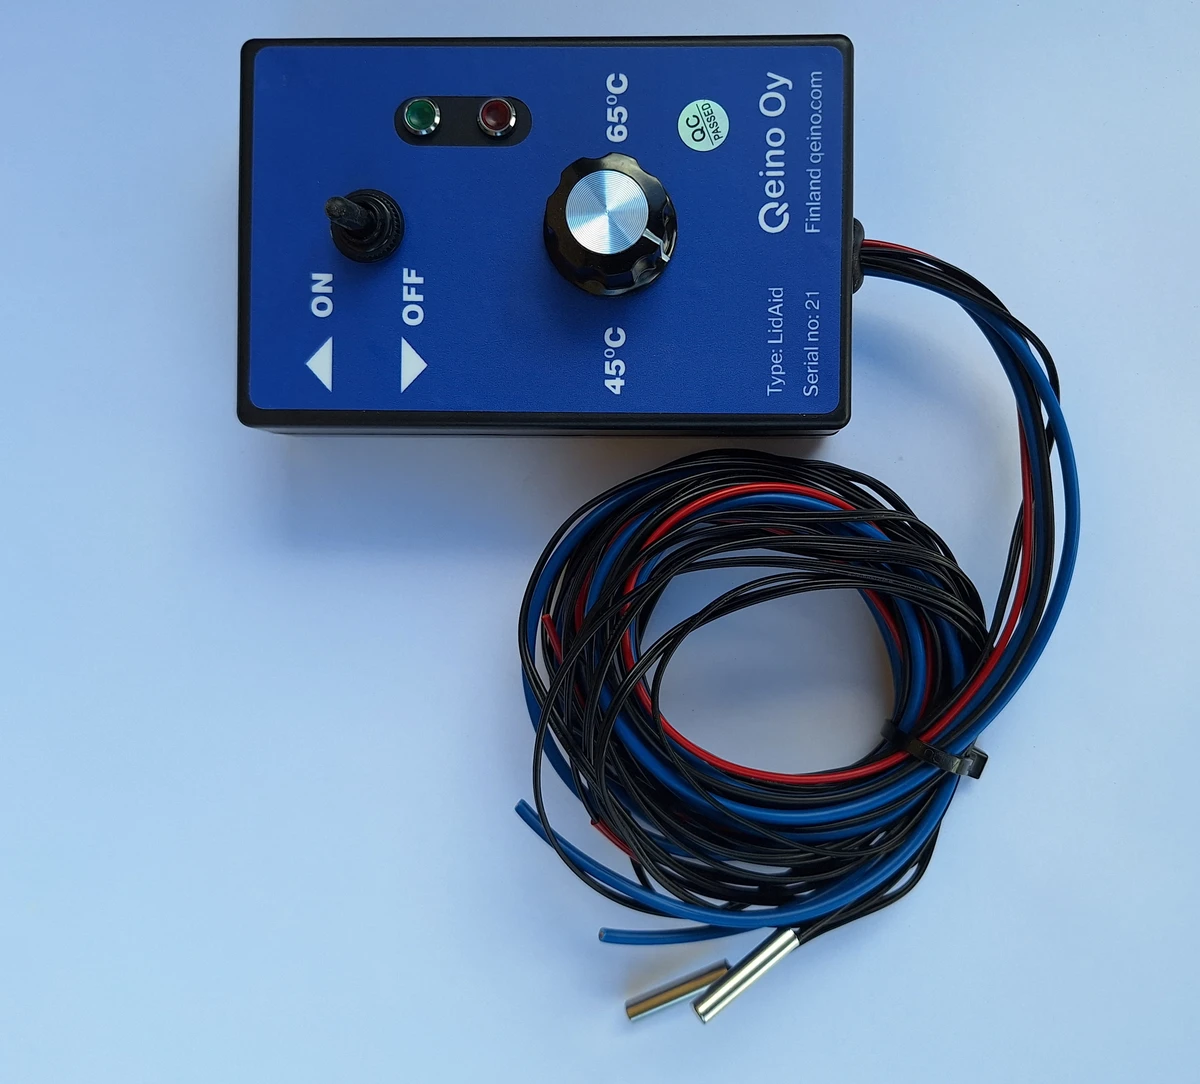
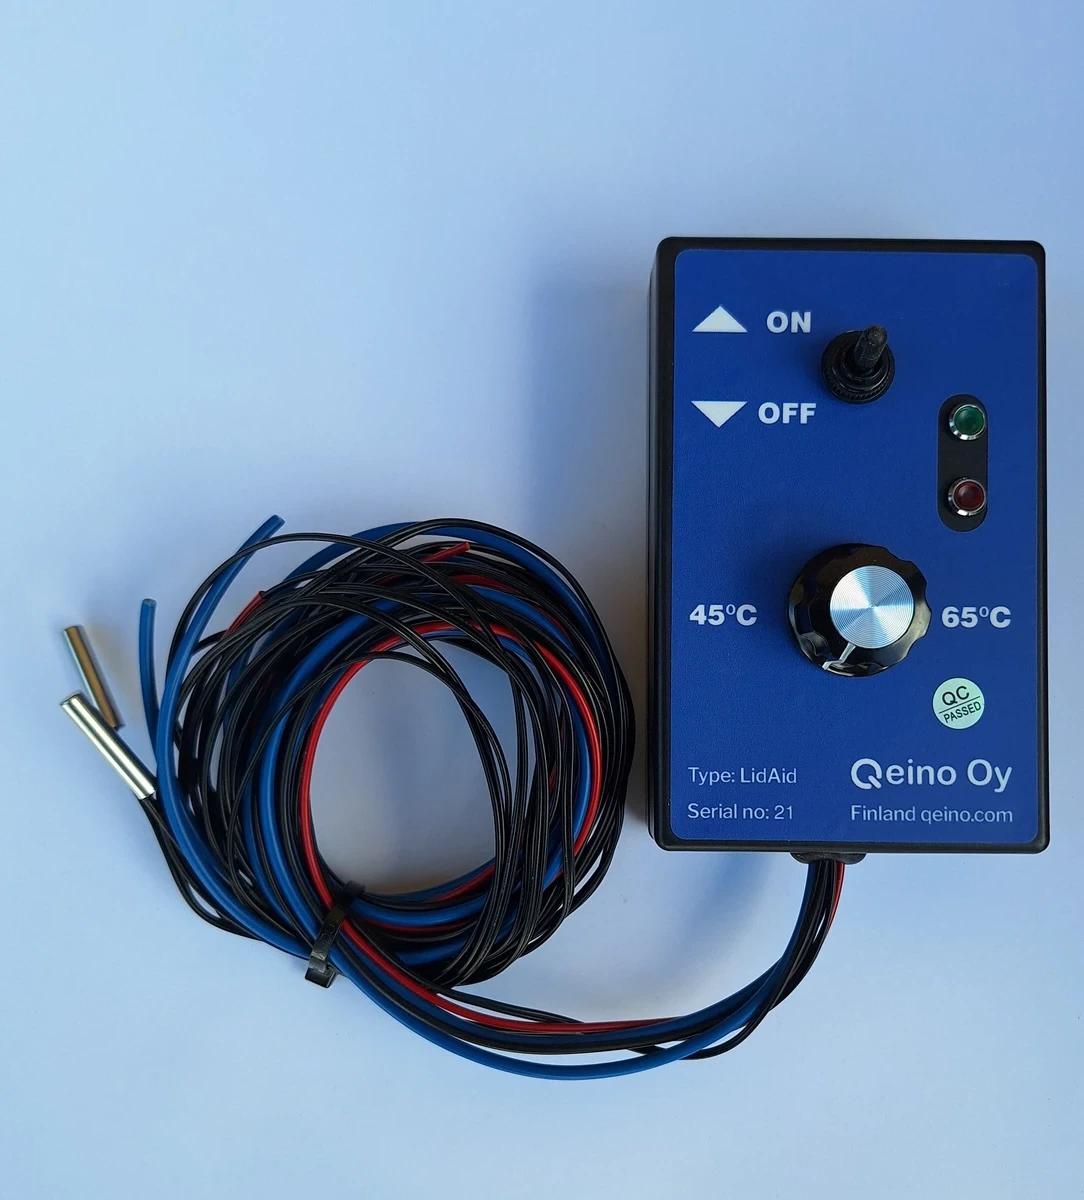
Rotate LidAid photos upright, align hotspots, update -15C tag & copy

diff --git a/index.html b/index.html
@@ -281,7 +281,7 @@
             <img id="heroPreviewImg" src="assets/img/lidaid-device.webp" alt="LidAid-latausluukunlämmitin ohjainlaite" loading="eager">
             <span class="hero-studio-tag" id="heroPreviewTag" aria-hidden="true">
               <svg width="12" height="12" viewBox="0 0 24 24" fill="none" stroke="currentColor" stroke-width="2.5" aria-hidden="true"><path d="M12 2v20M2 12h20M4.93 4.93l14.14 14.14M19.07 4.93L4.93 19.07"/></svg>
-              <span>−40 °C testattu</span>
+              <span>−15 °C testattu</span>
             </span>
           </div>
 
@@ -397,7 +397,7 @@
 
               <!-- Interactive Anatomy Hotspots (anchored 1:1 to image dimensions) -->
               <div class="hotspot-layer" id="lidaidHotspots" role="group" aria-label="Laitteen tekniset rakenneosat">
-                <button type="button" class="hotspot-pin tooltip-bottom" style="top: 32%; left: 26%;" aria-label="Rakenneosa: Päävirtakytkin" aria-expanded="false" data-title="Päävirtakytkin" data-desc="ON / OFF -kytkin virrankatkaisuun ja manuaaliseen ohitukseen.">
+                <button type="button" class="hotspot-pin tooltip-bottom tooltip-align-right" style="top: 28%; left: 68%;" aria-label="Rakenneosa: Päävirtakytkin" aria-expanded="false" data-title="Päävirtakytkin" data-desc="ON / OFF -kytkin virrankatkaisuun ja manuaaliseen ohitukseen.">
                   <span class="hotspot-pulse" aria-hidden="true"></span>
                   <span class="hotspot-circle" aria-hidden="true">
                     <svg class="hotspot-icon" width="11" height="11" viewBox="0 0 14 14" fill="none" aria-hidden="true">
@@ -410,7 +410,7 @@
                   </span>
                 </button>
 
-                <button type="button" class="hotspot-pin tooltip-bottom" style="top: 15.5%; left: 37%;" aria-label="Rakenneosa: LED-merkkivalot" aria-expanded="false" data-title="LED-merkkivalot" data-desc="Kaksiväriset LEDit osoittavat valmiustilan ja aktiivisen lämmityksen.">
+                <button type="button" class="hotspot-pin tooltip-bottom tooltip-align-right" style="top: 35.5%; left: 82%;" aria-label="Rakenneosa: LED-merkkivalot" aria-expanded="false" data-title="LED-merkkivalot" data-desc="Kaksiväriset LEDit osoittavat valmiustilan ja aktiivisen lämmityksen.">
                   <span class="hotspot-pulse" aria-hidden="true"></span>
                   <span class="hotspot-circle" aria-hidden="true">
                     <svg class="hotspot-icon" width="11" height="11" viewBox="0 0 14 14" fill="none" aria-hidden="true">
@@ -423,7 +423,7 @@
                   </span>
                 </button>
 
-                <button type="button" class="hotspot-pin tooltip-bottom" style="top: 30%; left: 50.5%;" aria-label="Rakenneosa: Lämpötilansäädin" aria-expanded="false" data-title="Lämpötilansäädin" data-desc="Portaaton säätöalue +45 °C ... +65 °C olosuhteiden mukaan.">
+                <button type="button" class="hotspot-pin tooltip-align-right" style="top: 50%; left: 73%;" aria-label="Rakenneosa: Lämpötilansäädin" aria-expanded="false" data-title="Lämpötilansäädin" data-desc="Portaaton säätöalue +45 °C ... +65 °C olosuhteiden mukaan.">
                   <span class="hotspot-pulse" aria-hidden="true"></span>
                   <span class="hotspot-circle" aria-hidden="true">
                     <svg class="hotspot-icon" width="11" height="11" viewBox="0 0 14 14" fill="none" aria-hidden="true">
@@ -436,7 +436,7 @@
                   </span>
                 </button>
 
-                <button type="button" class="hotspot-pin" style="top: 89%; left: 69%;" aria-label="Rakenneosa: Johtosarja ja NTC-anturi" aria-expanded="false" data-title="Johtosarja & Anturi" data-desc="12V herätejohto ja tarkka NTC-anturi auton luukun sisään.">
+                <button type="button" class="hotspot-pin tooltip-align-left" style="top: 72%; left: 16%;" aria-label="Rakenneosa: Johtosarja ja NTC-anturi" aria-expanded="false" data-title="Johtosarja & Anturi" data-desc="12V herätejohto ja tarkka NTC-anturi auton luukun sisään.">
                   <span class="hotspot-pulse" aria-hidden="true"></span>
                   <span class="hotspot-circle" aria-hidden="true">
                     <svg class="hotspot-icon" width="11" height="11" viewBox="0 0 14 14" fill="none" aria-hidden="true">
@@ -574,7 +574,7 @@
             </div>
 
             <p class="sim-desc">
-              Testaa liukusäätimellä tai pikavalinnoilla, miten mikroprosessori ohjaa lämmitystehoa ja suojaa akkua:
+              Testaa liukusäätimellä tai pikavalinnoilla, miten mikroprosessori ohjaa lämmitystehoa ja suojaa latausluukkua:
             </p>
 
             <!-- 1-Click Weather Scenario Presets -->

diff --git a/assets/js/i18n.js b/assets/js/i18n.js
@@ -23,7 +23,7 @@
         lidaid: {
           img: 'assets/img/lidaid-device.webp',
           alt: 'LidAid-latausluukunlämmitin ohjainlaite',
-          tag: '−40 °C testattu',
+          tag: '−15 °C testattu',
           title: 'LidAid-latausluukunlämmitin',
           desc: 'Mikroprosessoriohjattu automaattilämmitin pitää sähköauton ja hybridin latausluukun ja pistokkeen sulana kovissakin pakkasissa.',
           s1l: 'Virrankulutus', s1v: '~20 W',
@@ -123,7 +123,7 @@
         },
         other: {
           title: 'Kaikki muut Type 2 & CCS -sähköautot ja ladattavat hybridit',
-          desc: 'LidAid on universaalisti asennettavissa käytännössä mihin tahansa 12V sähköjärjestelmällä varustettuun sähköautoon tai hybridiin (mm. Tesla Model 3/Y/S, Volvo EX40/EX30, Polestar 2/3/4, Mercedes-Benz EQ, Renault, Peugeot, Ford, Nissan ym.).',
+          desc: 'LidAid on universaalisti asennettavissa käytännössä mihin tahansa 12V sähköjärjestelmällä varustettuun sähköautoon tai hybridiin.',
           productVal: 'LidAid-latausluukunlämmitin (Muu automalli)',
           btnText: 'Valitse LidAid autollesi & pyydä tarjous'
         }
@@ -161,7 +161,7 @@
         lidaid: {
           img: 'assets/img/lidaid-device.webp',
           alt: 'LidAid laddluckevärmare styrenhet',
-          tag: 'Testad vid −40 °C',
+          tag: 'Testad vid −15 °C',
           title: 'LidAid laddluckevärmare',
           desc: 'Mikroprocessorstyrd automatisk värmare som håller elbilens och laddhybridens laddlucka och kontakt isfria även i sträng kyla.',
           s1l: 'Effekt', s1v: '~20 W',
@@ -261,7 +261,7 @@
         },
         other: {
           title: 'Alla övriga Type 2 & CCS elbilar och laddhybrider',
-          desc: 'LidAid har en universell design och kan installeras i praktiskt taget alla elbilar och laddhybrider med 12 V-system (t.ex. Tesla Model 3/Y/S, Volvo EX40/EX30, Polestar 2/3/4, Mercedes-Benz EQ, Renault, Peugeot, Ford, Nissan m.fl.).',
+          desc: 'LidAid har en universell design och kan installeras i praktiskt taget alla elbilar och laddhybrider med 12 V-system.',
           productVal: 'LidAid-latausluukunlämmitin (Muu automalli)',
           btnText: 'Välj LidAid för din bil & begär offert'
         }
@@ -299,7 +299,7 @@
         lidaid: {
           img: 'assets/img/lidaid-device.webp',
           alt: 'LidAid EV charge port heater controller unit',
-          tag: '−40 °C tested',
+          tag: '−15 °C tested',
           title: 'LidAid Charge Port Heater',
           desc: 'Microprocessor-controlled automatic heater that keeps EV and plug-in hybrid charge flaps and connectors ice-free even in extreme Arctic cold.',
           s1l: 'Power draw', s1v: '~20 W',
@@ -399,7 +399,7 @@
         },
         other: {
           title: 'All Other Type 2 & CCS Electric Vehicles and Plug-in Hybrids',
-          desc: 'LidAid installs universally in virtually any EV or plug-in hybrid with a 12 V auxiliary system (including Tesla Model 3/Y/S, Volvo EX40/EX30, Polestar 2/3/4, Mercedes-Benz EQ, Renault, Peugeot, Ford, Nissan, and more).',
+          desc: 'LidAid installs universally in virtually any EV or plug-in hybrid with a 12 V auxiliary system.',
           productVal: 'LidAid-latausluukunlämmitin (Muu automalli)',
           btnText: 'Select LidAid for your car & request quote'
         }
@@ -503,7 +503,7 @@
         // Winter Sim
         ['.sim-header-title span', 'Vinterväder- & termostatsimulator'],
         ['.sim-badge', 'Interaktivt test'],
-        ['.sim-desc', 'Testa med reglaget eller snabbvalen hur mikroprocessorn styr värmeeffekten och skyddar batteriet:'],
+        ['.sim-desc', 'Testa med reglaget eller snabbvalen hur mikroprocessorn styr värmeeffekten och skyddar laddluckan:'],
         ['.sim-preset-btn[data-temp="-25"]', '−25 °C Lappland'],
         ['.sim-preset-btn[data-temp="-15"]', '−15 °C Köldknäpp'],
         ['.sim-preset-btn[data-temp="-2"]', '−2 °C Blötsnö'],
@@ -881,7 +881,7 @@
         // Winter Sim
         ['.sim-header-title span', 'Winter Weather & Thermostat Simulator'],
         ['.sim-badge', 'Interactive Demo'],
-        ['.sim-desc', 'Drag the slider or tap a weather preset to see how the microprocessor regulates heat output and protects your 12 V battery:'],
+        ['.sim-desc', 'Drag the slider or tap a weather preset to see how the microprocessor regulates heat output and protects your charge flap:'],
         ['.sim-preset-btn[data-temp="-25"]', '−25 °C Lapland'],
         ['.sim-preset-btn[data-temp="-15"]', '−15 °C Deep Freeze'],
         ['.sim-preset-btn[data-temp="-2"]', '−2 °C Wet Slush'],

diff --git a/assets/css/style.css b/assets/css/style.css
@@ -1428,6 +1428,50 @@ nav {
   transition: opacity 0.18s ease, transform 0.18s ease, visibility 0s linear 0s;
 }
 
+/* Edge-safe horizontal tooltip alignment for pins near left/right image edges */
+.hotspot-pin.tooltip-align-right .hotspot-tooltip {
+  left: auto;
+  right: -4px;
+  transform: translateY(4px);
+}
+
+.hotspot-pin.tooltip-align-right.tooltip-bottom .hotspot-tooltip {
+  transform: translateY(-4px);
+}
+
+.hotspot-pin.tooltip-align-right .hotspot-tooltip::after {
+  left: auto;
+  right: 16px;
+  transform: none;
+}
+
+.hotspot-pin.tooltip-align-right:hover .hotspot-tooltip,
+.hotspot-pin.tooltip-align-right:focus-visible .hotspot-tooltip,
+.hotspot-pin.tooltip-align-right.active .hotspot-tooltip {
+  transform: translateY(0);
+}
+
+.hotspot-pin.tooltip-align-left .hotspot-tooltip {
+  left: -4px;
+  right: auto;
+  transform: translateY(4px);
+}
+
+.hotspot-pin.tooltip-align-left.tooltip-bottom .hotspot-tooltip {
+  transform: translateY(-4px);
+}
+
+.hotspot-pin.tooltip-align-left .hotspot-tooltip::after {
+  left: 16px;
+  transform: none;
+}
+
+.hotspot-pin.tooltip-align-left:hover .hotspot-tooltip,
+.hotspot-pin.tooltip-align-left:focus-visible .hotspot-tooltip,
+.hotspot-pin.tooltip-align-left.active .hotspot-tooltip {
+  transform: translateY(0);
+}
+
 .gallery-thumbs {
   display: flex;
   gap: 12px;
